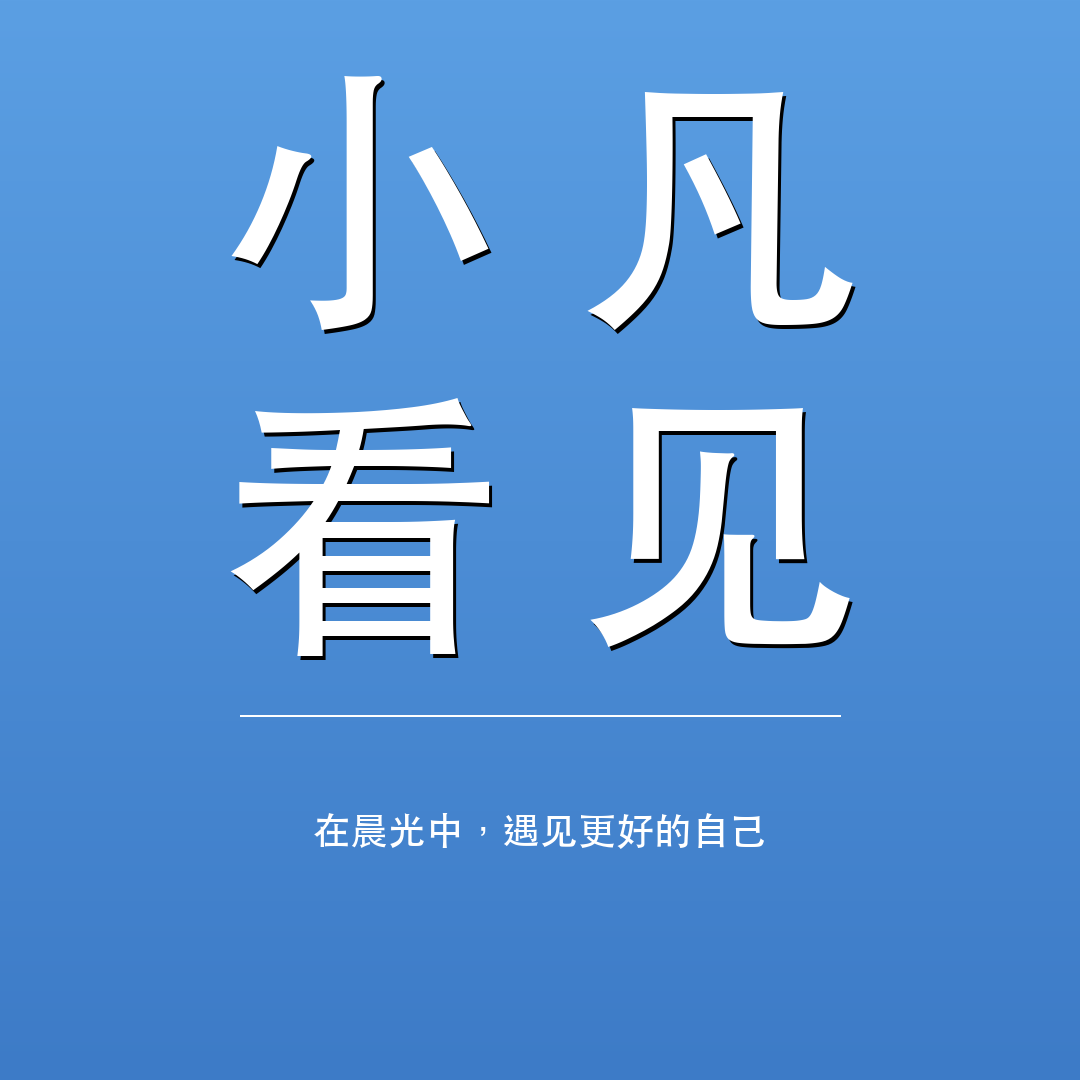
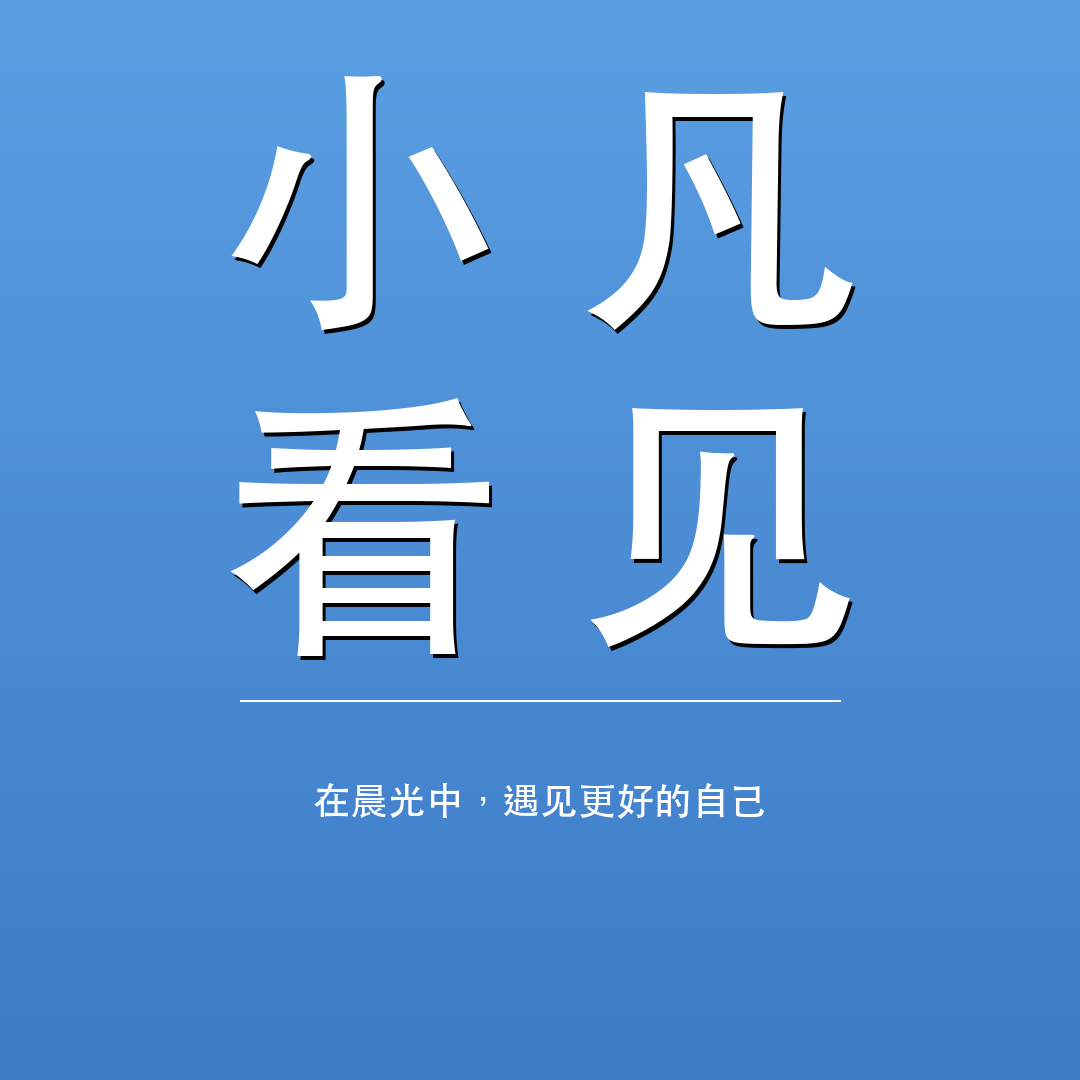
fix: 副标题往上挪
- 副标题位置：往上挪30px（从-50改为-80）
- 增加副标题与横线的距离
- 整体排版更均衡

✨ Generated with Claude Code

Changed region(s): [[0.4583, 0.7028, 0.7028, 0.7944], [0.2444, 0.6417, 0.7639, 0.6722], [0.275, 0.7028, 0.4278, 0.7944]]

diff --git a/generate_share_image.py b/generate_share_image.py
@@ -111,7 +111,7 @@ def generate_share_image():
 
     # ====== 最下方：副标题 - 往上挪一些 ======
     subtitle_text = "在晨光中，遇见更好的自己"
-    subtitle_y = height - 100 - offset_y - 50  # 再往上挪50px，但保持底部间距
+    subtitle_y = height - 100 - offset_y - 80  # 再往上挪80px，但保持底部间距
     draw.text((center_x, subtitle_y), subtitle_text,
               fill=(255, 255, 255, 200), font=font_subtitle, anchor="mm")
 
